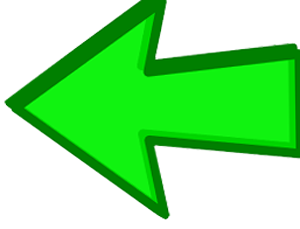
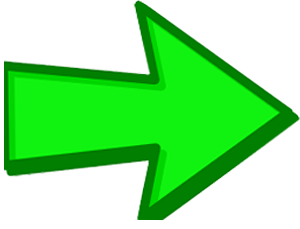
switcheroo

diff --git a/styles/styles.css b/styles/styles.css
@@ -29,6 +29,16 @@
 	color: black;
 	border:solid 4px;
 }
+.centered4 {
+	 position: absolute;
+    top: 700px;
+  left: 100px;
+    transform: translate(-50%, -50%);
+	font-size:100px;
+	color: white;
+	border:solid 4px;
+	border-color:white;
+}
 .parent {
   position: relative;
   top: 0;
@@ -41,6 +51,7 @@
 }
 .image2 {
   position: absolute;
-  top: 720px;
-  left: 70px;
+     top: 500px;
+    left: 1000px;
+
 }

diff --git a/page3.html b/page3.html
@@ -9,10 +9,12 @@
 <div class="container">
 
 <div class="parent">
-  <img class="image1" src="images/ship.png" style="width:100;"/>
+  <img class="image1" src="images/ship.png" style="width:100%;"/>
   <a href="page5.html">
   <img class="image2" src="images/arrow.png" />
   </a>
+  <a href="index.html">
+   <div style="font-size:28px;" class="centered4">Restart</div>
 </div>
 </div>
 
